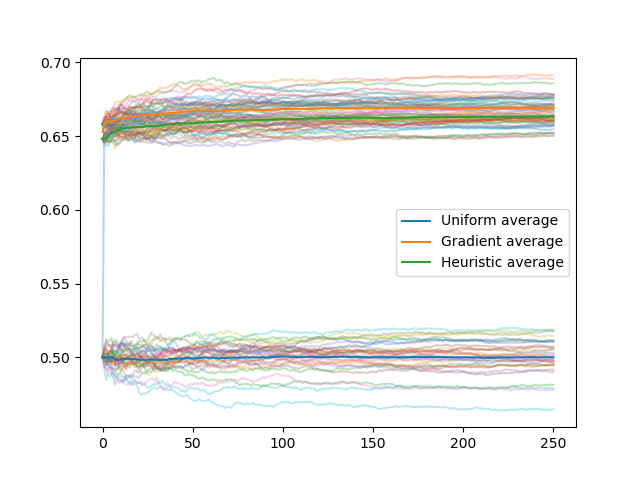
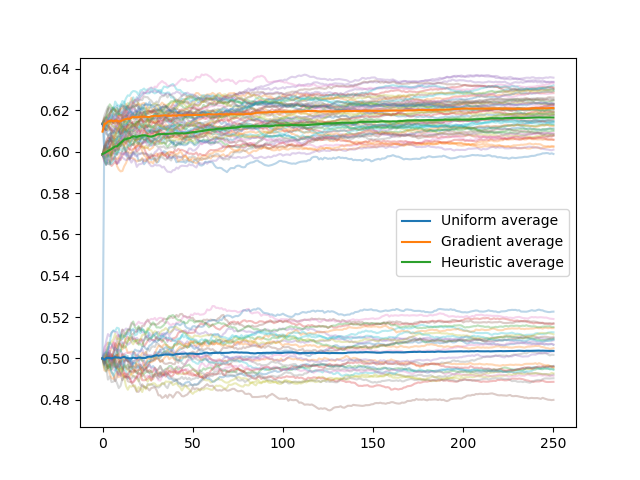
Reworked function to plot infection instead of exposure

diff --git a/model/network.py b/model/network.py
@@ -1,7 +1,7 @@
 from typing import List
 from utilities.utilities import balls_per_node, balls_added, generate_plot_network, calculate_exposure
 from model.polya_node import polya_node
-from numpy import zeros, copy
+from numpy import zeros, copy, mean
 from utilities.io import save_network
 from random import random
 from utilities.plot import plot_optimized_network
@@ -17,6 +17,7 @@ class network:
         self.graph_layout = None
         self.nodes = []
         self.weights = []
+        self.trial_weights = []
         self.init_weights = []
         self.exposures = []
         self.node_exposures = zeros(n)
@@ -56,9 +57,12 @@ class network:
         self.steps += 1
         self.calculate_exposure()
 
-    def run_n_steps(self, n):
+    def run_n_steps(self, n, track_infection=False):
         for i in range(n):
             self.run_step()
+            if track_infection:
+                self.calculate_weights()
+                self.trial_weights.append(mean(self.weights))
 
     def plot_network(self, index, blocking=True):
         if index == 1:
@@ -95,6 +99,7 @@ class network:
             self.nodes[i].clear_node()
         self.steps = 0
         self.exposures = []
+        self.trial_weights = []
         self.calculate_exposure()
 
     def reset_network(self):

diff --git a/execute/run_op_compare.py b/execute/run_op_compare.py
@@ -1,6 +1,6 @@
 from model.network import network
 from numpy import copy
-from utilities.plot import plot_exposures, plot_degree_frequency
+from utilities.plot import plot_infection, plot_degree_frequency
 
 
 net = network(100)
@@ -15,26 +15,26 @@ heuristic_set = []
 net.plot_network(1)
 
 for i in range(num_trials):
-    net.run_n_steps(num_steps)
-    default_set.append(copy(net.exposures))
+    net.run_n_steps(num_steps, True)
+    default_set.append(copy(net.trial_weights))
     net.clear_network()
 print('Default Complete')
 
 net.optimize_initial()
 net.plot_network(2, False)
 for i in range(num_trials):
-    net.run_n_steps(num_steps)
-    gradient_set.append(copy(net.exposures))
+    net.run_n_steps(num_steps, True)
+    gradient_set.append(copy(net.trial_weights))
     net.clear_network()
 print('Gradient complete')
 
 net.reset_network()
 net.optimize_initial(gradient=False)
 for i in range(num_trials):
-    net.run_n_steps(num_steps)
-    heuristic_set.append(copy(net.exposures))
+    net.run_n_steps(num_steps, True)
+    heuristic_set.append(copy(net.trial_weights))
     net.clear_network()
 print('Heuristic complete')
 
 plot_degree_frequency(net)
-plot_exposures(default_set, gradient_set, heuristic_set)
+plot_infection(default_set, gradient_set, heuristic_set)

diff --git a/utilities/plot.py b/utilities/plot.py
@@ -68,7 +68,34 @@ def plot_exposures(default_set, gradient_set, heuristic_set):
     legend()
     savefig('../results/network_exposure_' + num_steps + '.png')
     xlabel('Time steps')
-    ylabel('Network Infectionc')
+    ylabel('Network Exposure')
+    show()
+
+
+def plot_infection(default_set, gradient_set, heuristic_set):
+    num_steps = str(len(default_set[0]))
+    _title = 'Network infection over ' + num_steps + ' steps'
+
+    figure('Exposure')
+    trial_opacity = .3
+    for exposures in default_set:
+        plot(exposures, alpha=trial_opacity)
+
+    for exposures in gradient_set:
+        plot(exposures, alpha=trial_opacity)
+
+    for exposure in heuristic_set:
+        plot(exposure, alpha=trial_opacity)
+
+    plot(mean(default_set, axis=0), label='Uniform average')
+    plot(mean(gradient_set, axis=0), label='Gradient average')
+    plot(mean(heuristic_set, axis=0), label='Heuristic average')
+
+    legend()
+    xlabel('Time steps')
+    ylabel('Network Infection')
+    savefig('../results/network_infection_' + num_steps + '.png')
+    title(_title)
     show()
 
 
